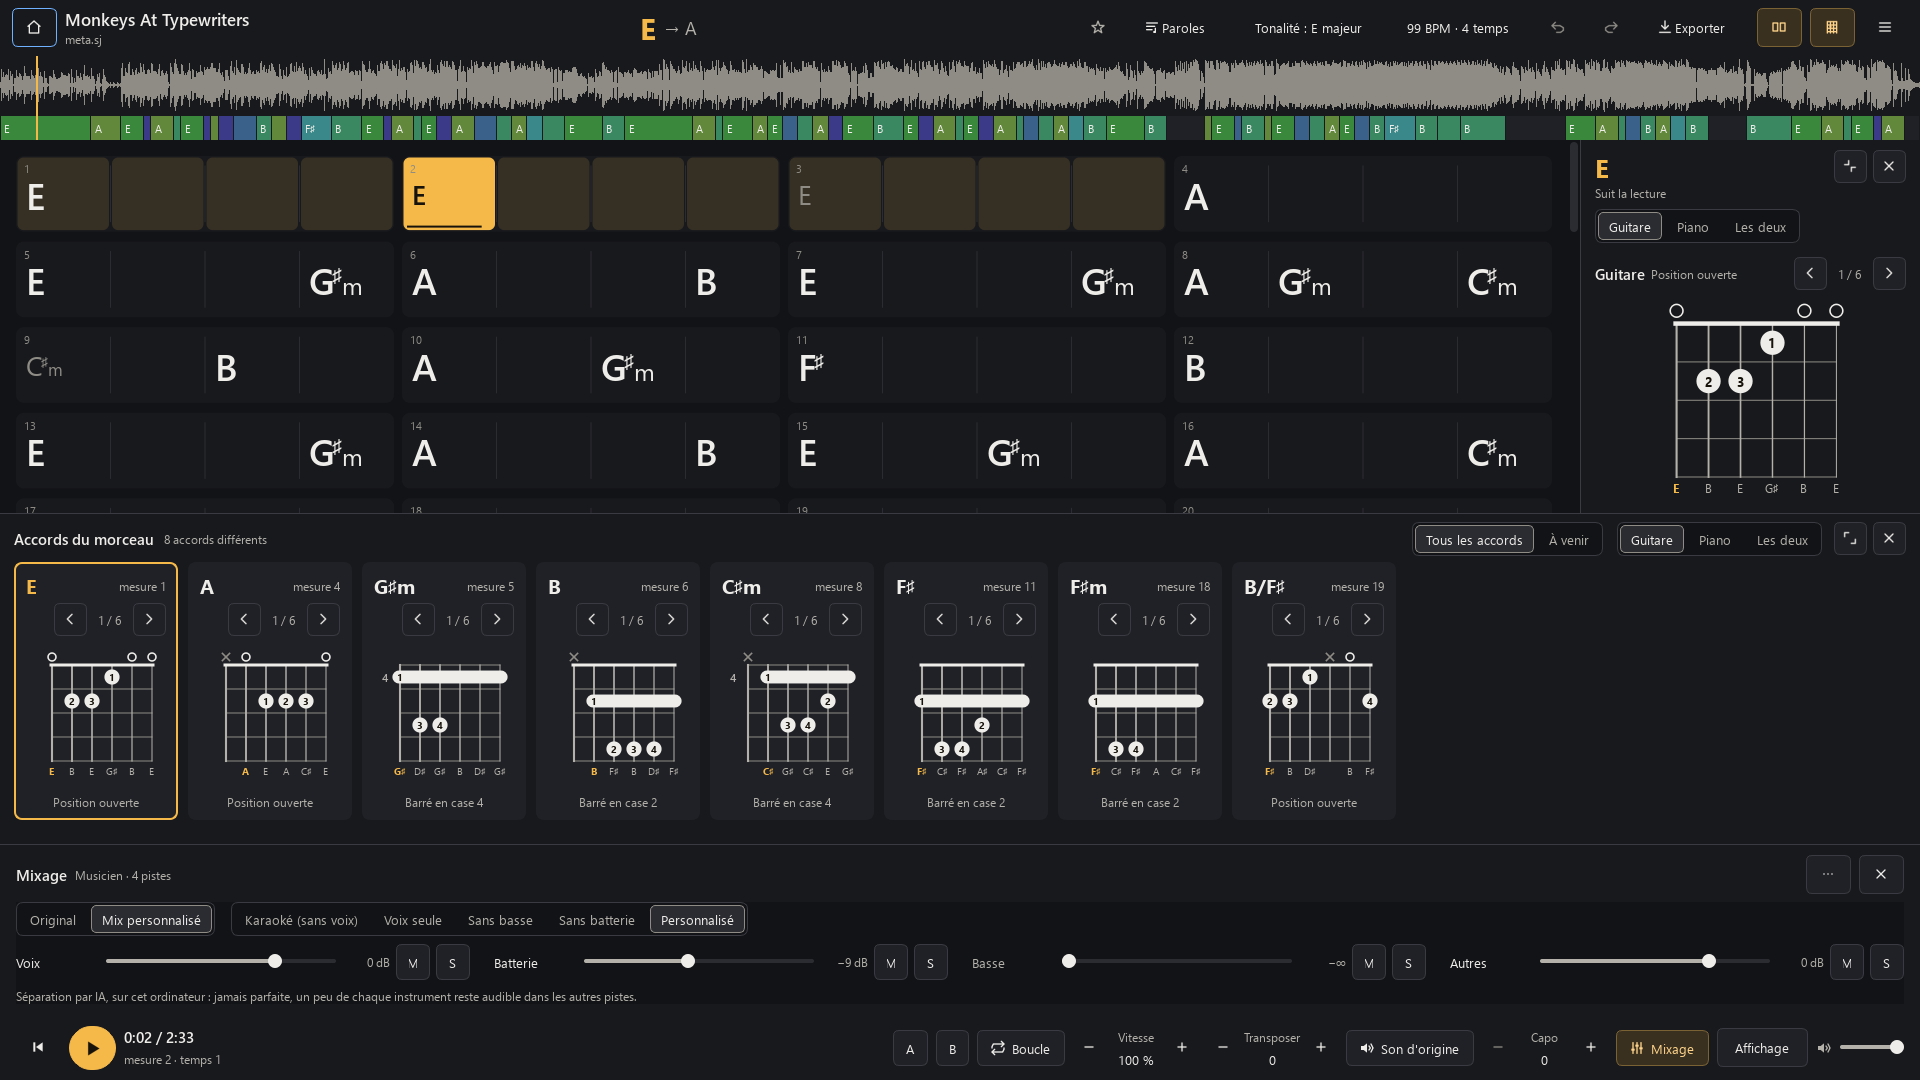
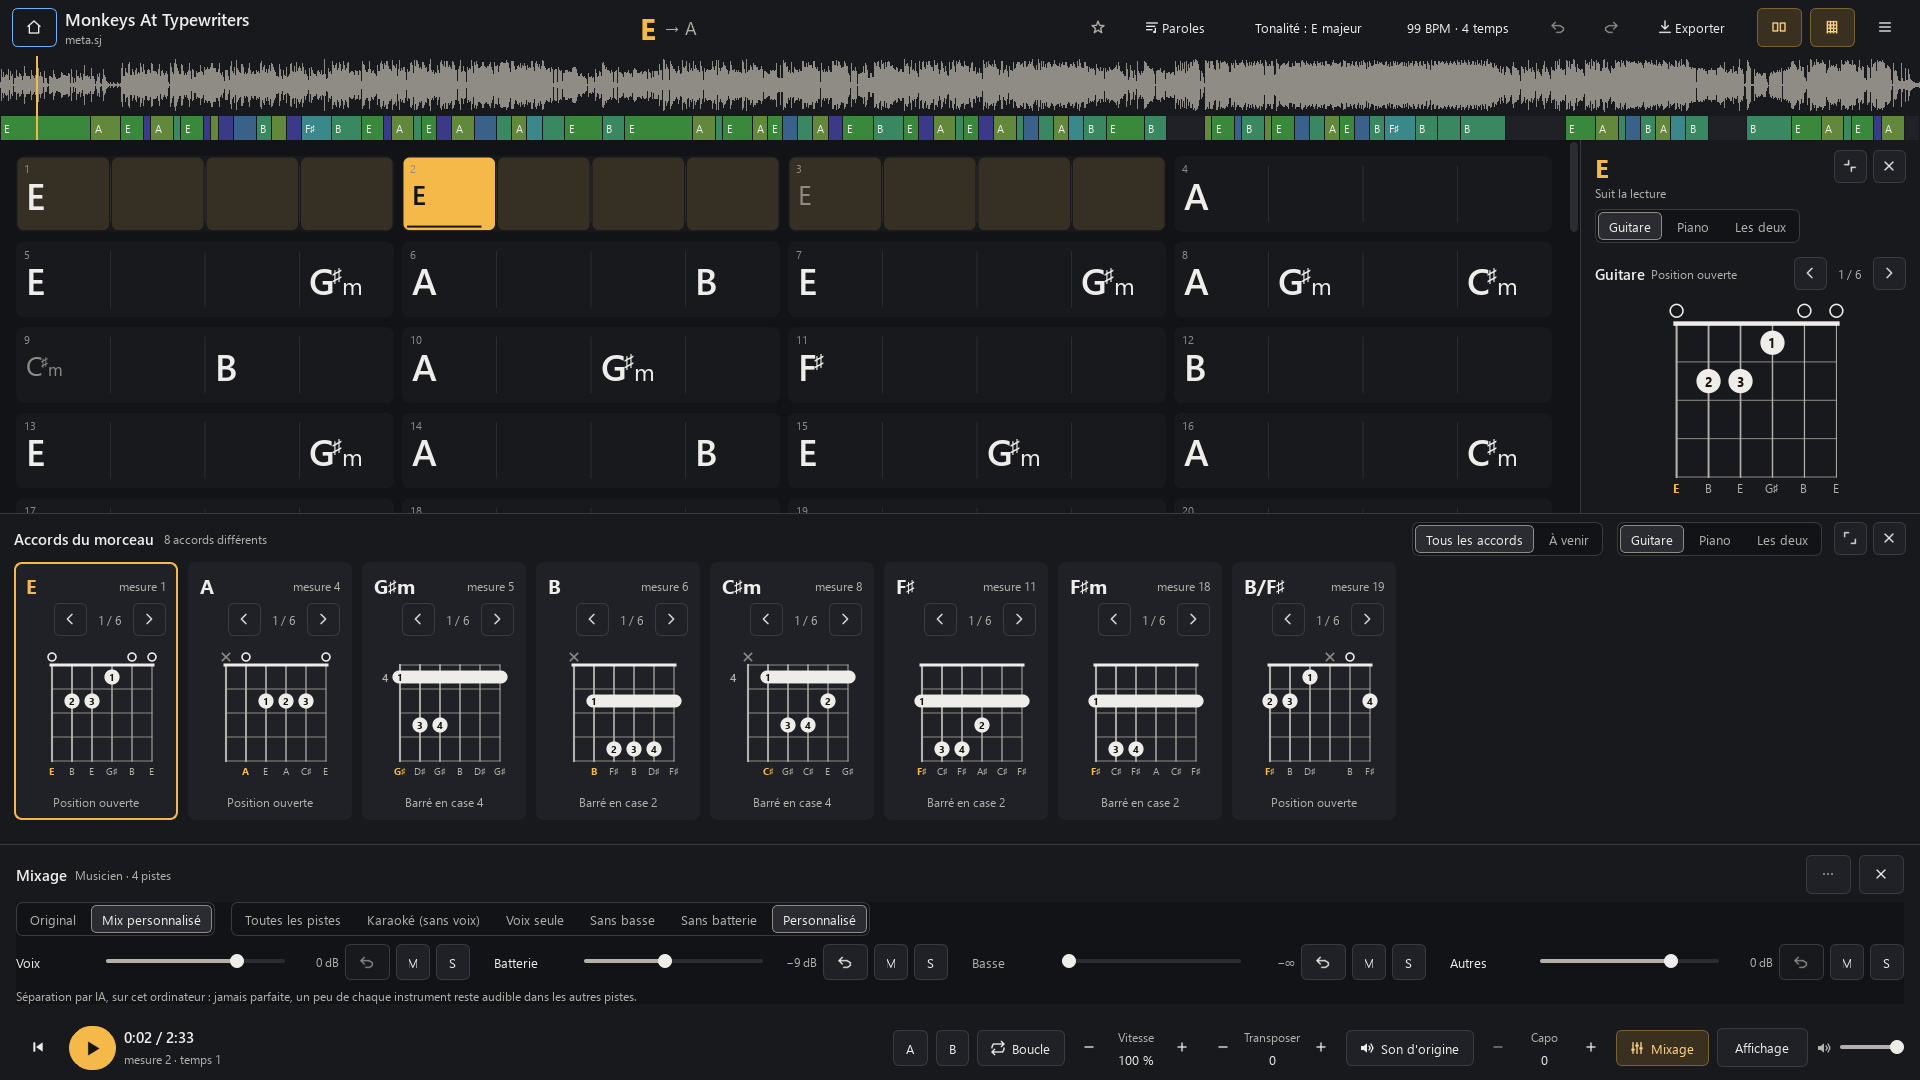
Mixage : remise à 0 dB par piste et préréglage « Toutes les pistes » ; version 1.6.1
- Icône ↶ à côté du niveau de chaque piste : remet cette piste seule à 0 dB, sans toucher aux
  autres pistes ni à Muet/Solo ; grisée quand la piste y est déjà. Le double-clic reste.
- Préréglage « Toutes les pistes » (Karaoké et Musicien) : toutes les pistes à 0 dB, sans Muet ni
  Solo, mix séparé à l'écoute ; distinct d'« Original » (l'enregistrement). Personnalisé ramène
  toujours le dernier réglage à la main.
- Fenêtre étroite : les préréglages passent sur leur propre ligne au lieu d'être coupés.
- Tests (853), autotest étendu, README, TECHNIQUE, notes v1.6.1, capture du mixage.

diff --git a/src/localchords/ui/mixer.py b/src/localchords/ui/mixer.py
@@ -90,6 +90,14 @@ class StemRow(QWidget):
         self.db.setObjectName("caption")
         self.db.setFixedWidth(48)
         self.db.setAlignment(Qt.AlignmentFlag.AlignRight | Qt.AlignmentFlag.AlignVCenter)
+        self.reset = QToolButton()
+        self.reset.setIcon(theme.icon("undo", size=14))
+        self.reset.setToolTip(
+            f"Remettre {label} à 0 dB (aussi : double-clic sur le curseur) ; "
+            "les autres pistes, Muet et Solo ne changent pas"
+        )
+        self.reset.setAccessibleName(f"Remettre {label} à 0 dB")
+        self.reset.clicked.connect(lambda: self.slider.setValue(stems.UNITY))
         self.mute = QPushButton("M")
         self.mute.setToolTip(f"Couper : {label}")
         self.mute.setAccessibleName(f"Couper {label}")
@@ -102,6 +110,7 @@ class StemRow(QWidget):
         row.addWidget(self.label)
         row.addWidget(self.slider, 1)
         row.addWidget(self.db)
+        row.addWidget(self.reset)
         row.addWidget(self.mute)
         row.addWidget(self.solo)
         self.slider.valueChanged.connect(lambda v: self.changed.emit(name, "level", v))
@@ -118,6 +127,7 @@ class StemRow(QWidget):
         for widget in (self.slider, self.mute, self.solo):
             widget.blockSignals(False)
         self.db.setText(stems.db_text(level))
+        self.reset.setEnabled(level != stems.UNITY)
         # What is not heard is drawn as such, whatever the reason (its own mute, another's solo).
         heard = stems.gains(settings)[stems.MODES[settings["mode"]]["stems"].index(self.name)] > 0
         self.label.setObjectName("" if heard and settings["on"] else "muted")
@@ -223,7 +233,7 @@ class MixerPanel(QFrame):
         col = QVBoxLayout(self.console)
         col.setContentsMargins(0, 0, 0, 0)
         col.setSpacing(8)
-        row = QHBoxLayout()
+        row = self.top = QHBoxLayout()
         self.ab_group = QButtonGroup(self)
         self.original = QPushButton("Original")
         self.original.setToolTip("Écouter l'enregistrement tel quel (Maj + M pour basculer)")
@@ -232,11 +242,12 @@ class MixerPanel(QFrame):
         for b in (self.original, self.mixed):
             b.setCheckable(True)
             self.ab_group.addButton(b)
-        row.addWidget(segmented([self.original, self.mixed]))
+        self.ab_frame = segmented([self.original, self.mixed])
+        row.addWidget(self.ab_frame, 0, Qt.AlignmentFlag.AlignLeft)
         row.addSpacing(8)
         self.preset_group = QButtonGroup(self)
         self.presets_frame = segmented([])
-        row.addWidget(self.presets_frame)
+        row.addWidget(self.presets_frame, 0, Qt.AlignmentFlag.AlignLeft)
         row.addStretch(1)
         col.addLayout(row)
         self.rows_box = QWidget()
@@ -277,6 +288,11 @@ class MixerPanel(QFrame):
             b.setCheckable(True)
             if key == "custom":
                 b.setToolTip("Revenir à votre propre réglage")
+            elif key == "all":
+                b.setToolTip(
+                    "Toutes les pistes séparées à 0 dB, sans Muet ni Solo. Ce n'est pas "
+                    "l'enregistrement d'origine : pour lui, choisissez « Original »."
+                )
             self.preset_group.addButton(b)
             self.preset_buttons[key] = b
             track.addWidget(b)
@@ -287,6 +303,10 @@ class MixerPanel(QFrame):
         if not n:
             return
         avail = width - 32
+        # Presets too wide beside Original/Mix (a narrow window): they go on a line of their own.
+        wide = self.ab_frame.sizeHint().width() + 8 + self.presets_frame.sizeHint().width()
+        d = QHBoxLayout.Direction
+        self.top.setDirection(d.LeftToRight if avail >= wide else d.TopToBottom)
         cols = n if avail >= ROW_WIDTH * n else (2 if avail >= ROW_WIDTH * 2 else 1)
         for r in self.stem_rows:
             self.rows.removeWidget(r)

diff --git a/tests/test_mixer_ui.py b/tests/test_mixer_ui.py
@@ -137,7 +137,7 @@ def test_presets_and_the_custom_mix(app, wav, tmp_path, fake_separation):
     rows = {r.name: r for r in c.panel.stem_rows}
     rows["other"].slider.setValue(90)
     buttons = c.panel.preset_buttons
-    assert set(buttons) == {"karaoke", "vocals", "no_bass", "no_drums", "custom"}
+    assert set(buttons) == {"all", "karaoke", "vocals", "no_bass", "no_drums", "custom"}
     buttons["karaoke"].click()
     assert mix.target[1] == 0.0 and mix.target[4] == 1.0  # vocals off, the rest as separated
     buttons["no_drums"].click()
@@ -153,7 +153,45 @@ def test_karaoke_mode_has_its_own_presets(app, wav, tmp_path, fake_separation):
     window = opened(app, wav, tmp_path)
     c = separated(app, window, "karaoke")
     assert [r.name for r in c.panel.stem_rows] == ["vocals", "instrumental"]
-    assert set(c.panel.preset_buttons) == {"karaoke", "vocals", "custom"}
+    assert set(c.panel.preset_buttons) == {"all", "karaoke", "vocals", "custom"}
+    window.close()
+
+
+@pytest.mark.parametrize("mode", ["karaoke", "musician"])
+def test_reset_one_stem_or_all_of_them(app, wav, tmp_path, fake_separation, mode):
+    window = opened(app, wav, tmp_path)
+    c = separated(app, window, mode)
+    mix, buttons, p = window.player.mix, c.panel.preset_buttons, c.panel
+    assert buttons["all"].isChecked()  # just separated: every stem as it is
+    first, last = p.stem_rows[0], p.stem_rows[-1]
+    assert not first.reset.isEnabled()  # nothing to reset yet
+    first.slider.setValue(30)
+    last.slider.setValue(90)
+    last.mute.click()
+    first.solo.click()
+    # The icon resets that stem's level only: the others, Muet and Solo stay as set.
+    first.reset.click()
+    s = c.settings
+    assert s["levels"] == {**{n: 75 for n in s["levels"]}, last.name: 90}
+    assert s["mute"] == [last.name] and s["solo"] == [first.name]
+    assert not first.reset.isEnabled() and last.reset.isEnabled()
+    assert first.db.text() == "0 dB" and buttons["custom"].isChecked()
+    last.slider.mouseDoubleClickEvent(None)  # the double click still does the same
+    assert c.settings["levels"][last.name] == stems.UNITY
+    last.slider.setValue(90)
+    # "Toutes les pistes", even from Original: the stems at 0 dB, no Muet or Solo.
+    p.original.click()
+    assert mix.target[0] == 1.0
+    buttons["all"].click()
+    s = c.settings
+    assert s["on"] and set(s["levels"].values()) == {stems.UNITY} and not s["mute"] + s["solo"]
+    assert list(mix.target) == [0.0] + [1.0] * len(p.stem_rows)
+    assert buttons["all"].isChecked() and p.mixed.isChecked() and not p.original.isChecked()
+    assert not any(r.mute.isChecked() or r.solo.isChecked() for r in p.stem_rows)
+    # Personnalisé still brings back the mix set by hand.
+    buttons["custom"].click()
+    s = c.settings
+    assert s["levels"][last.name] == 90 and s["mute"] == [last.name] and s["solo"] == [first.name]
     window.close()
 
 
@@ -237,6 +275,9 @@ def test_the_console_fits_the_width(app, wav, tmp_path, fake_separation, width):
     c.panel.reflow(width)
     cols = {c.panel.rows.getItemPosition(c.panel.rows.indexOf(r))[1] for r in c.panel.stem_rows}
     assert len(cols) == {800: 1, 1920: 4, 5120: 4}[width]
+    presets = c.panel.presets_frame  # all six, never cut: on their own line when narrow
+    assert presets.width() >= presets.sizeHint().width()
+    assert presets.mapTo(c.panel, presets.rect().topRight()).x() <= c.panel.width() - 16
     assert (window.song.mixer_button.text() == " Mixage") == (width >= 1240)
     window.close()
 

diff --git a/tests/test_separation.py b/tests/test_separation.py
@@ -174,9 +174,16 @@ def test_levels_mute_solo_and_presets():
     k = stems.apply_preset(s, "karaoke")
     assert stems.gains(k) == [0.0, 1.0, 1.0, 1.0] and stems.current_preset(k) == "karaoke"
     assert stems.current_preset(stems.apply_preset(k, "original")) == "original"
-    assert stems.presets_for("karaoke") == ["original", "karaoke", "vocals"]
+    assert stems.presets_for("karaoke") == ["original", "all", "karaoke", "vocals"]
     assert "no_bass" in stems.presets_for("musician")
     assert stems.gains(stems.apply_preset(stems.new_settings("karaoke"), "vocals")) == [1.0, 0.0]
+    # "all" is the stems summed at 0 dB, never the recording; a fresh mix is that preset.
+    assert stems.current_preset(stems.new_settings("musician")) == "all"
+    mixed = {**s, "on": False, "mute": ["bass"], "solo": ["drums"], "custom": {"levels": {}}}
+    every = stems.apply_preset(mixed, "all")
+    assert every["on"] and not every["mute"] and not every["solo"]
+    assert stems.gains(every) == [1.0] * 4 and stems.current_preset(every) == "all"
+    assert every["custom"] is mixed["custom"]  # a preset never overwrites the user's mix
 
 
 def test_settings_read_back_safely():

diff --git a/src/localchords/selftest.py b/src/localchords/selftest.py
@@ -299,10 +299,17 @@ def run(audio_path: Path, out: Path) -> int:
             # Done, or failed: separated, then the stems read in the background.
             wait(lambda: window.player.mix is not None or not (c.busy() or c.load_token), 900)
             mix = window.player.mix
+            mixed = False
             if mix is not None:
-                {r.name: r for r in c.panel.stem_rows}["bass"].slider.setValue(0)
+                bass = {r.name: r for r in c.panel.stem_rows}["bass"]
+                bass.slider.setValue(0)
+                mixed = mix.stems.shape[0] == 4 and mix.target[3] == 0.0
+                bass.reset.click()  # one stem back to 0 dB, then every stem
+                mixed = mixed and mix.target[3] == 1.0
+                c.panel.preset_buttons["all"].click()
+                mixed = mixed and list(mix.target) == [0.0, 1.0, 1.0, 1.0, 1.0]
             separated = {
-                "ok": bool(mix is not None and mix.stems.shape[0] == 4 and mix.target[3] == 0.0),
+                "ok": bool(mixed),
                 "seconds": round(time.perf_counter() - started, 1),
                 "error": c.error or c.panel.warn.text(),
             }

diff --git a/src/localchords/stems.py b/src/localchords/stems.py
@@ -101,6 +101,8 @@ def gains(settings: dict) -> list[float]:
 PRESETS = {
     # name: (label, levels by stem, stems absent from the mode make the preset unavailable)
     "original": ("Original", None),
+    # Every separated stem at 0 dB: the sum of the stems, not the recording ("original").
+    "all": ("Toutes les pistes", {}),
     "karaoke": ("Karaoké (sans voix)", {"vocals": 0}),
     "vocals": ("Voix seule", {"drums": 0, "bass": 0, "other": 0, "instrumental": 0}),
     "no_bass": ("Sans basse", {"bass": 0}),
@@ -110,7 +112,7 @@ PRESETS = {
 
 def presets_for(mode: str) -> list[str]:
     names = set(MODES[mode]["stems"])
-    return [k for k, (_, levels) in PRESETS.items() if levels is None or set(levels) & names]
+    return [k for k, (_, levels) in PRESETS.items() if not levels or set(levels) & names]
 
 
 def apply_preset(settings: dict, preset: str) -> dict:

diff --git a/src/localchords/__init__.py b/src/localchords/__init__.py
@@ -1,3 +1,3 @@
 """LocalChords: une grille d'accords locale, synchronisée avec la lecture."""
 
-__version__ = "1.6"
+__version__ = "1.6.1"

diff --git a/README.md b/README.md
@@ -250,7 +250,7 @@ et le capo affichés dans le programme.
 
 ## Mixage : séparer les instruments (1.6)
 
-![Le panneau Mixage sous les accords du morceau : Original ou Mix personnalisé, les préréglages, et une ligne par piste (Voix, Batterie, Basse, Autres) avec son curseur, son niveau en dB et les boutons M et S ; la basse est coupée, la batterie à −9 dB](docs/images/localchords-mixer.png)
+![Le panneau Mixage sous les accords du morceau : Original ou Mix personnalisé, les préréglages, et une ligne par piste (Voix, Batterie, Basse, Autres) avec son curseur, son niveau en dB, l'icône de remise à 0 dB et les boutons M et S ; la basse est coupée, la batterie à −9 dB](docs/images/localchords-mixer.png)
 
 Le bouton **Mixage** de la barre du bas (ou `M`) ouvre le panneau. Rien n'est séparé tant que vous ne le
 demandez pas :
@@ -264,11 +264,13 @@ demandez pas :
 2. La séparation se fait **sur votre PC**, en arrière-plan : environ un cinquième de la durée du morceau
    sur un processeur récent à 8 cœurs, plus sur une machine modeste, et jusqu'à 3 Go de mémoire. Vous
    pouvez écouter, lire la grille et changer de morceau pendant ce temps ; **Annuler** arrête tout.
-3. Réglez chaque piste : **curseur** (tout à gauche : silence complet ; un double-clic remet le niveau
-   d'origine), **M** pour la couper, **S** pour l'écouter seule (les réglages des autres sont gardés).
-   **Original / Mix personnalisé** (ou `Maj + M`) compare d'un clic, sans craquement. Préréglages :
+3. Réglez chaque piste : **curseur** (tout à gauche : silence complet), **↶** à côté du niveau pour
+   remettre cette piste seule à 0 dB (ou un double-clic sur le curseur), **M** pour la couper, **S** pour
+   l'écouter seule (les réglages des autres sont gardés). **Original / Mix personnalisé** (ou `Maj + M`)
+   compare d'un clic, sans craquement. Préréglages : *Toutes les pistes* (toutes à 0 dB, sans M ni S),
    *Karaoké (sans voix)*, *Voix seule*, *Sans basse*, *Sans batterie*, et *Personnalisé* pour revenir à
-   votre réglage.
+   votre réglage. *Original* est l'enregistrement tel quel ; *Toutes les pistes* est la somme des pistes
+   séparées, presque identique mais pas tout à fait.
 
 Les pistes sont gardées : rouvrez le morceau, le mix revient tel que vous l'avez laissé, sans nouvelle
 séparation. Vitesse, transposition, boucles et volume général s'appliquent au mix. Le menu **⋯** du
@@ -417,6 +419,6 @@ de morceau) : on les supprime depuis le mixage. En mode portable, tout cela est 
 ### Pour les développeurs
 
 Construire : `scripts\build.ps1`. Tester : `.venv\Scripts\python -m pytest`. Documentation technique :
-[docs/TECHNIQUE.md](docs/TECHNIQUE.md), design : [docs/DESIGN.md](docs/DESIGN.md), installateur : [docs/INSTALLATEUR.md](docs/INSTALLATEUR.md), mises à jour : [docs/MISES-A-JOUR.md](docs/MISES-A-JOUR.md), séparation et mixage : [docs/SEPARATION.md](docs/SEPARATION.md), notes de version : [docs/NOTES-v1.6.md](docs/NOTES-v1.6.md), [docs/NOTES-v1.5.1.md](docs/NOTES-v1.5.1.md), [docs/NOTES-v1.5.md](docs/NOTES-v1.5.md), [docs/NOTES-v1.4.md](docs/NOTES-v1.4.md), [docs/NOTES-v1.3.1.md](docs/NOTES-v1.3.1.md), [docs/NOTES-v1.3.md](docs/NOTES-v1.3.md), [docs/NOTES-v1.2.1.md](docs/NOTES-v1.2.1.md) et [docs/NOTES-v1.2.md](docs/NOTES-v1.2.md).
+[docs/TECHNIQUE.md](docs/TECHNIQUE.md), design : [docs/DESIGN.md](docs/DESIGN.md), installateur : [docs/INSTALLATEUR.md](docs/INSTALLATEUR.md), mises à jour : [docs/MISES-A-JOUR.md](docs/MISES-A-JOUR.md), séparation et mixage : [docs/SEPARATION.md](docs/SEPARATION.md), notes de version : [docs/NOTES-v1.6.1.md](docs/NOTES-v1.6.1.md), [docs/NOTES-v1.6.md](docs/NOTES-v1.6.md), [docs/NOTES-v1.5.1.md](docs/NOTES-v1.5.1.md), [docs/NOTES-v1.5.md](docs/NOTES-v1.5.md), [docs/NOTES-v1.4.md](docs/NOTES-v1.4.md), [docs/NOTES-v1.3.1.md](docs/NOTES-v1.3.1.md), [docs/NOTES-v1.3.md](docs/NOTES-v1.3.md), [docs/NOTES-v1.2.1.md](docs/NOTES-v1.2.1.md) et [docs/NOTES-v1.2.md](docs/NOTES-v1.2.md).
 Licences : LocalChords est sous licence MIT ([LICENSE](LICENSE)) ; composants tiers dans
 [LICENCES-TIERS.md](LICENCES-TIERS.md).

diff --git a/docs/NOTES-v1.6.1.md b/docs/NOTES-v1.6.1.md
@@ -1,0 +1,19 @@
+# LocalChords v1.6.1 : remise à zéro dans le mixage
+
+Petite version corrective de la v1.6, sur l'ergonomie du panneau Mixage seulement. La séparation des
+instruments, le modèle et les pistes déjà séparées ne changent pas : rien n'est à séparer de nouveau.
+
+## Nouveautés
+
+- **↶ à côté du niveau de chaque piste** : remet cette piste seule à 0 dB. Les autres pistes, et les états
+  Muet et Solo, ne bougent pas. L'icône est grisée quand la piste est déjà à 0 dB. Le double-clic sur le
+  curseur fait toujours la même chose.
+- **Préréglage « Toutes les pistes »** (modes Karaoké et Musicien) : toutes les pistes du mode à 0 dB, sans
+  Muet ni Solo, et le mix séparé à l'écoute. C'est le réglage d'un morceau qui vient d'être séparé.
+- **« Original » et « Toutes les pistes » restent distincts** : *Original* fait entendre l'enregistrement
+  tel quel ; *Toutes les pistes* fait entendre la somme des pistes séparées, très proche de l'original
+  sans lui être identique (la séparation n'est jamais parfaite).
+- **Personnalisé** ramène toujours votre dernier réglage à la main, après n'importe quel préréglage,
+  « Toutes les pistes » compris.
+- **Fenêtre étroite** : quand les préréglages ne tiennent pas à côté d'*Original / Mix personnalisé*, ils
+  passent sur leur propre ligne au lieu d'être coupés.

diff --git a/docs/TECHNIQUE.md b/docs/TECHNIQUE.md
@@ -311,6 +311,10 @@ Choix du modèle, mesures et limites : [SEPARATION.md](SEPARATION.md). Le chemin
    jeu de gains `[1, 0…]` ou `[0, g…]`. Au-delà de 0,95, la somme passe par une tangente hyperbolique.
 5. **Réglages.** `project.view["mixer"]` : mode, `on`, `levels` (0..100, 75 = 0 dB, gain = (p/75)²),
    `mute`, `solo`, et `custom` (le dernier réglage personnel, rappelé par le préréglage Personnalisé).
+   Les préréglages (`stems.PRESETS`) ne changent que `levels`, `on`, `mute` et `solo`, jamais `custom` ;
+   « Toutes les pistes » (`all`, v1.6.1) met chaque piste à 75 et passe sur le mix, quand « Original »
+   remet seulement `on` à faux. L'icône ↶ d'une piste remet son curseur à 75 : c'est un réglage à la
+   main, gardé dans `custom` comme le double-clic.
    `stems.checked` relit ces valeurs sans faire confiance au fichier. Le dernier mode choisi et la vitesse
    mesurée de séparation (`separation_speed`, secondes par seconde) sont des réglages du programme.
 6. **Export.** `stems.export_mix` refait le même calcul hors du lecteur, par blocs de 10 s, à 44,1 kHz, en
